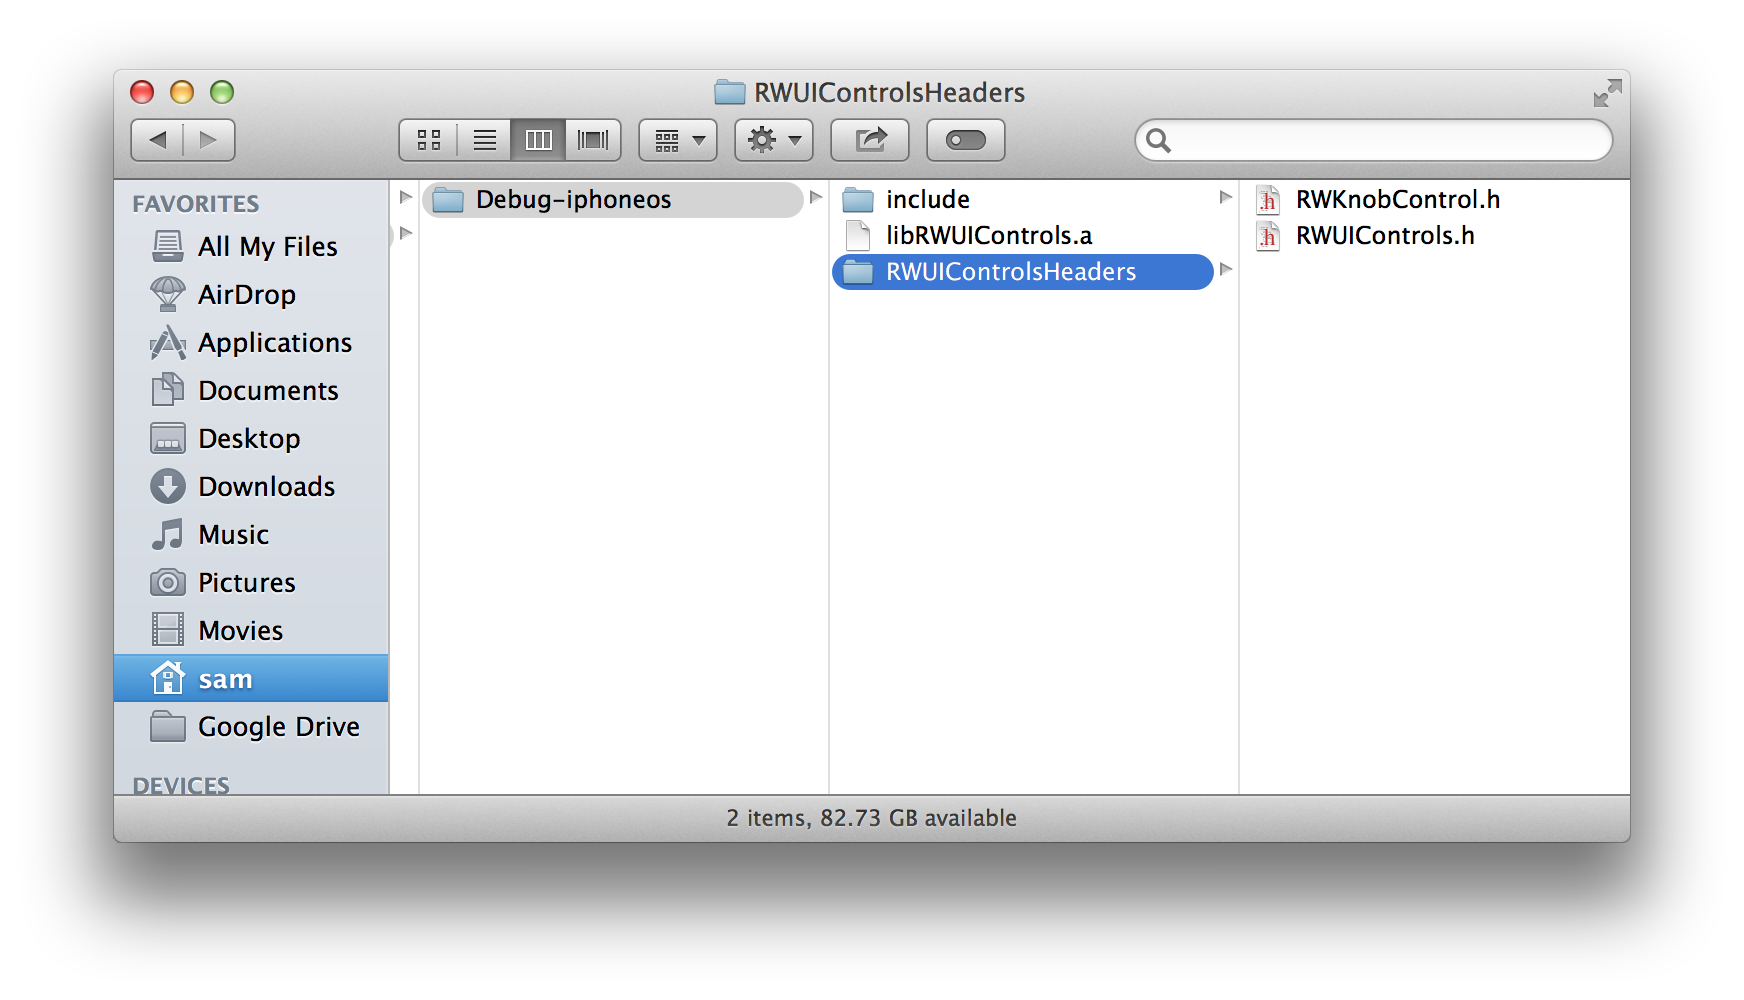
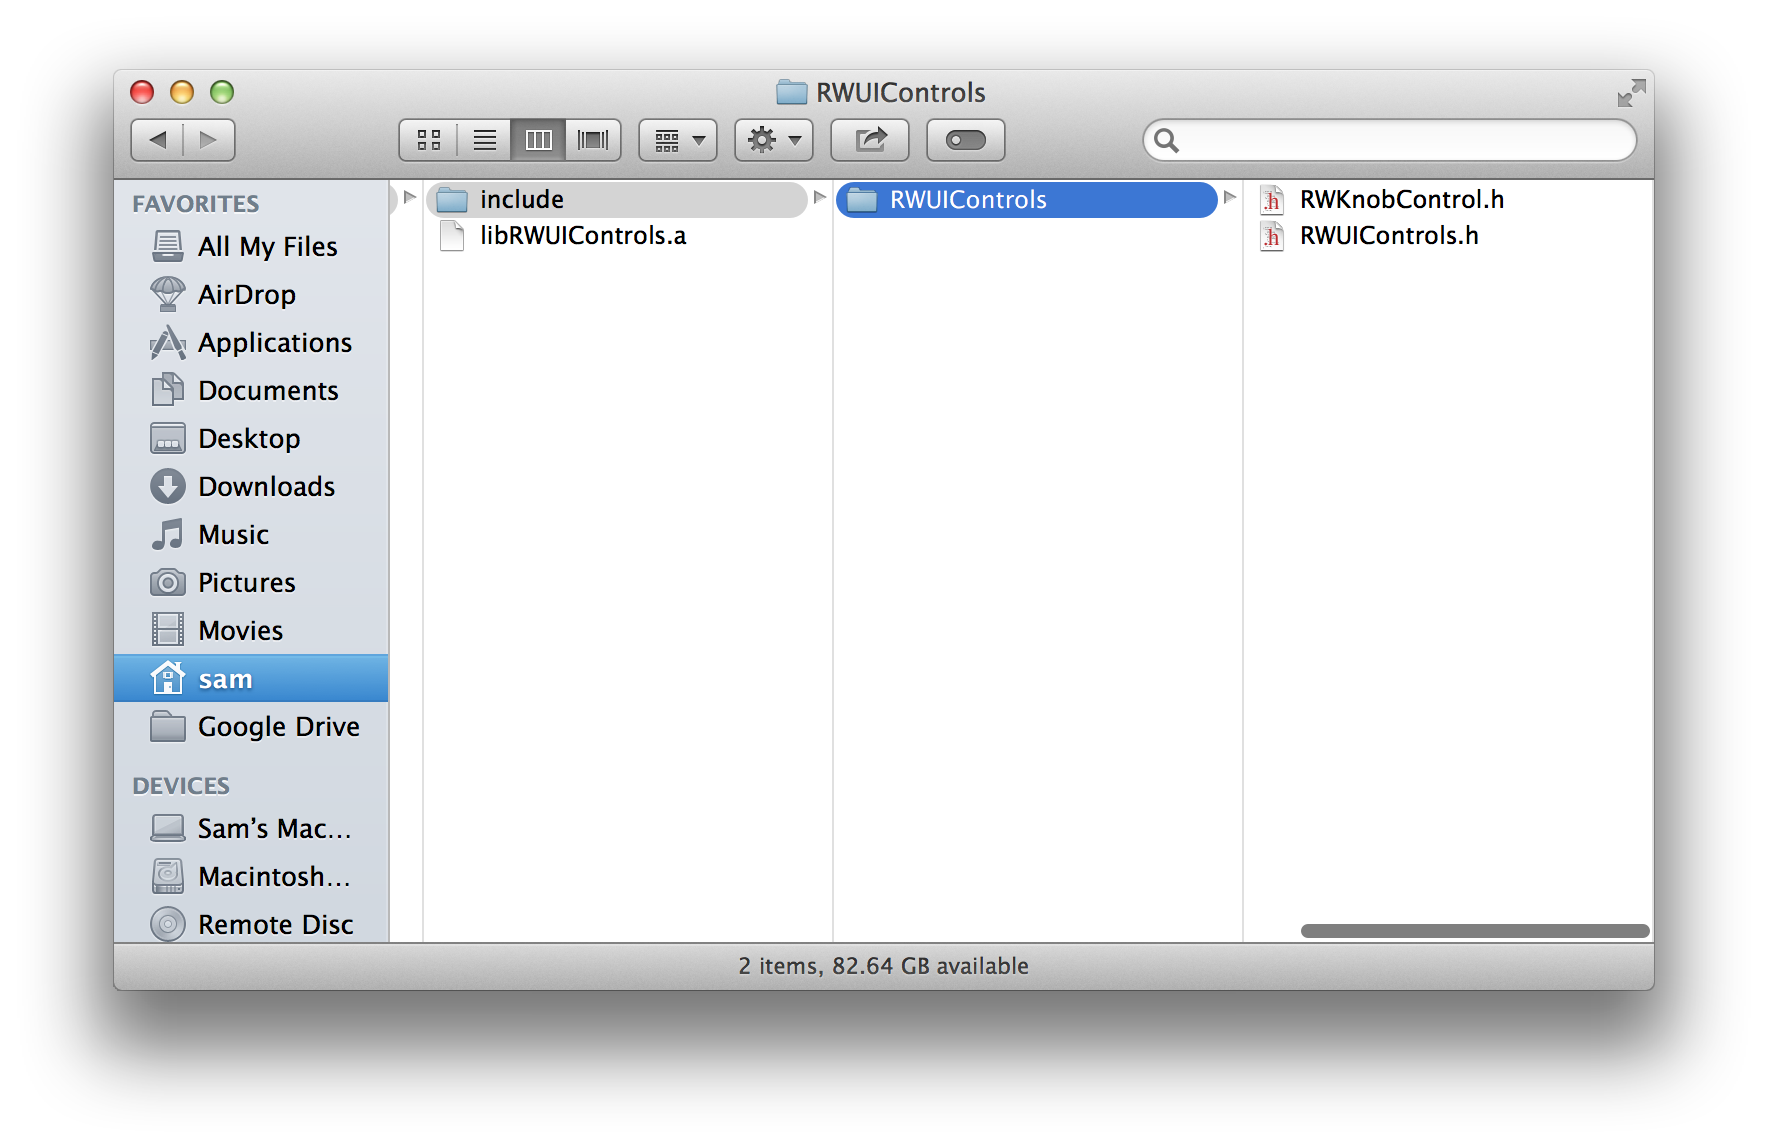
Adds writeup for creating a dependent project

Changed region(s): [[0.0619, 0.062, 0.9599, 0.868]]

diff --git a/BuildAFramework.md b/BuildAFramework.md
@@ -140,6 +140,18 @@ Note: as you continue to add new classes to your library, don't forget to keep
 the membership up-to-date. Make as few headers public as possible, and ensure
 that the remainder are in the _project_ group.
 
+The other thing that you need to do with your control's header file is add it
+to the library's main header file - __RWUIControls.h__. This means that a
+developer using your library just needs to include one file, and doesn't have
+to work out exactly which pieces she needs:
+
+    #import <RWUIControls/RWUIControls.h>
+
+Therefore, add the following to __RWUIControls.h__:
+
+    // Knob Control
+    #import <RWUIControls/RWKnobControl.h>
+
 ### Configuring Build Settings
 
 You are now very close to being able to build this project and create your
@@ -155,7 +167,7 @@ __RWUIControls__ static library target. Select the __Build Settings__ tab and
 then search for __"public headers"__. Double click on the __Public Headers
 Folder Path__ and enter the following:
 
-    $(PROJECT_NAME)Headers
+    include/$(PROJECT_NAME)
 
 ![Set the public header location](img/public_headers_path.png)
 
@@ -185,11 +197,69 @@ __Show in Finder__.
 ![Successful first build](img/successful_first_build.png)
 
 In this directory you can see the static library itself (__libRWUIControls.a__)
-and the directory you specified for the public header -
-__RWUIControlsHeaders__. Notice that the headers you made public exist in the
-folder as you would expect them to.
+and the directory you specified for the public headers - __include/RWUIControls__.
+Notice that the headers you made public exist in the folder as you would expect
+them to.
 
 ### Creating a dependent development project
+
+Developing a UI Controls library for iOS would be extremely difficult if you
+couldn't actually see what you were doing - which seems to be the case at the
+moment. Therefore, in this section you're going to create a new Xcode project,
+which will have a dependency on the library project, allowing you to develop
+the framework with a dev app. Crucially, the code for the dev app will be
+completely separate from the library itself, which makes for a lot cleaner
+structure.
+
+Begin by closing the static library project by clicking __File > Close
+Project__. Then create a new project with __File > New > Project__. Select
+__iOS > Application > Single View Application__, call the new project
+__UIControlDevApp__ and specify that it should be __iPhone__ only. Save the
+project in the same directory as you chose for __RWUIControls__.
+
+To add a dependency on the __RWUIControls__ library, drag
+__RWUIControls.xcodeproj__ from the Finder into the __UIControlDevApp__ group
+in Xcode.
+
+![Import Library into Dev App](img/import_library_into_dev_app.png)
+
+You can now navigate around the library project, inside the dev app project.
+This is perfect because it means that you can edit code inside the library and
+run up the dev app to check the changes.
+
+Note: You can't have the same project open in 2 different Xcode windows -
+therefore, if you're unable to navigate the library project check that you
+don't have it open elsewhere.
+
+Rather than recreate the dev app from the last tutorial, you can copy the same
+code in. First of all, select __Main.storyboard__, __RWViewController.h__ and
+__RWViewController.m__ and delete them by right clicking and selecting
+__Delete__. Then copy the the __DevApp__ folder from the zip you downloaded
+right into the __UIControlDevApp__ group in Xcode.
+
+INSERT_GIF_HERE
+
+To add a build dependency for the dev app on the static library, select the
+__UIControlDevApp__ project in the Project Navigator, and navigate to the
+__Build Phases__ tab of the __UIControlDevApp__ target. In the Project
+Navigator, navigate to the __Products__ group of the __RWUIControls__ project,
+and then drag __libRWUIControls.a__ from the Project Navigator into the __Link
+Binary With Libraries__ panel.
+
+INSERT_GIF_HERE
+
+Now you can finally build and run an app and see it in action. If you followed
+the previous tutorial on building a knob control, then you'll recognize the
+simple app that you've built.
+
+![First Build and run of dev app](img/dev_app_buildrun1.png)
+
+The beauty of using these nested projects like this is that you can continue to
+work on the library itself, without leaving the dev app project - whilst
+maintaining the code in different places. Each time you build the project
+you're also checking that you've got the public/project header membership set
+correctly, since the dev app will be unable to build if it is missing required
+headers.
 
 
 ## Building a Framework
